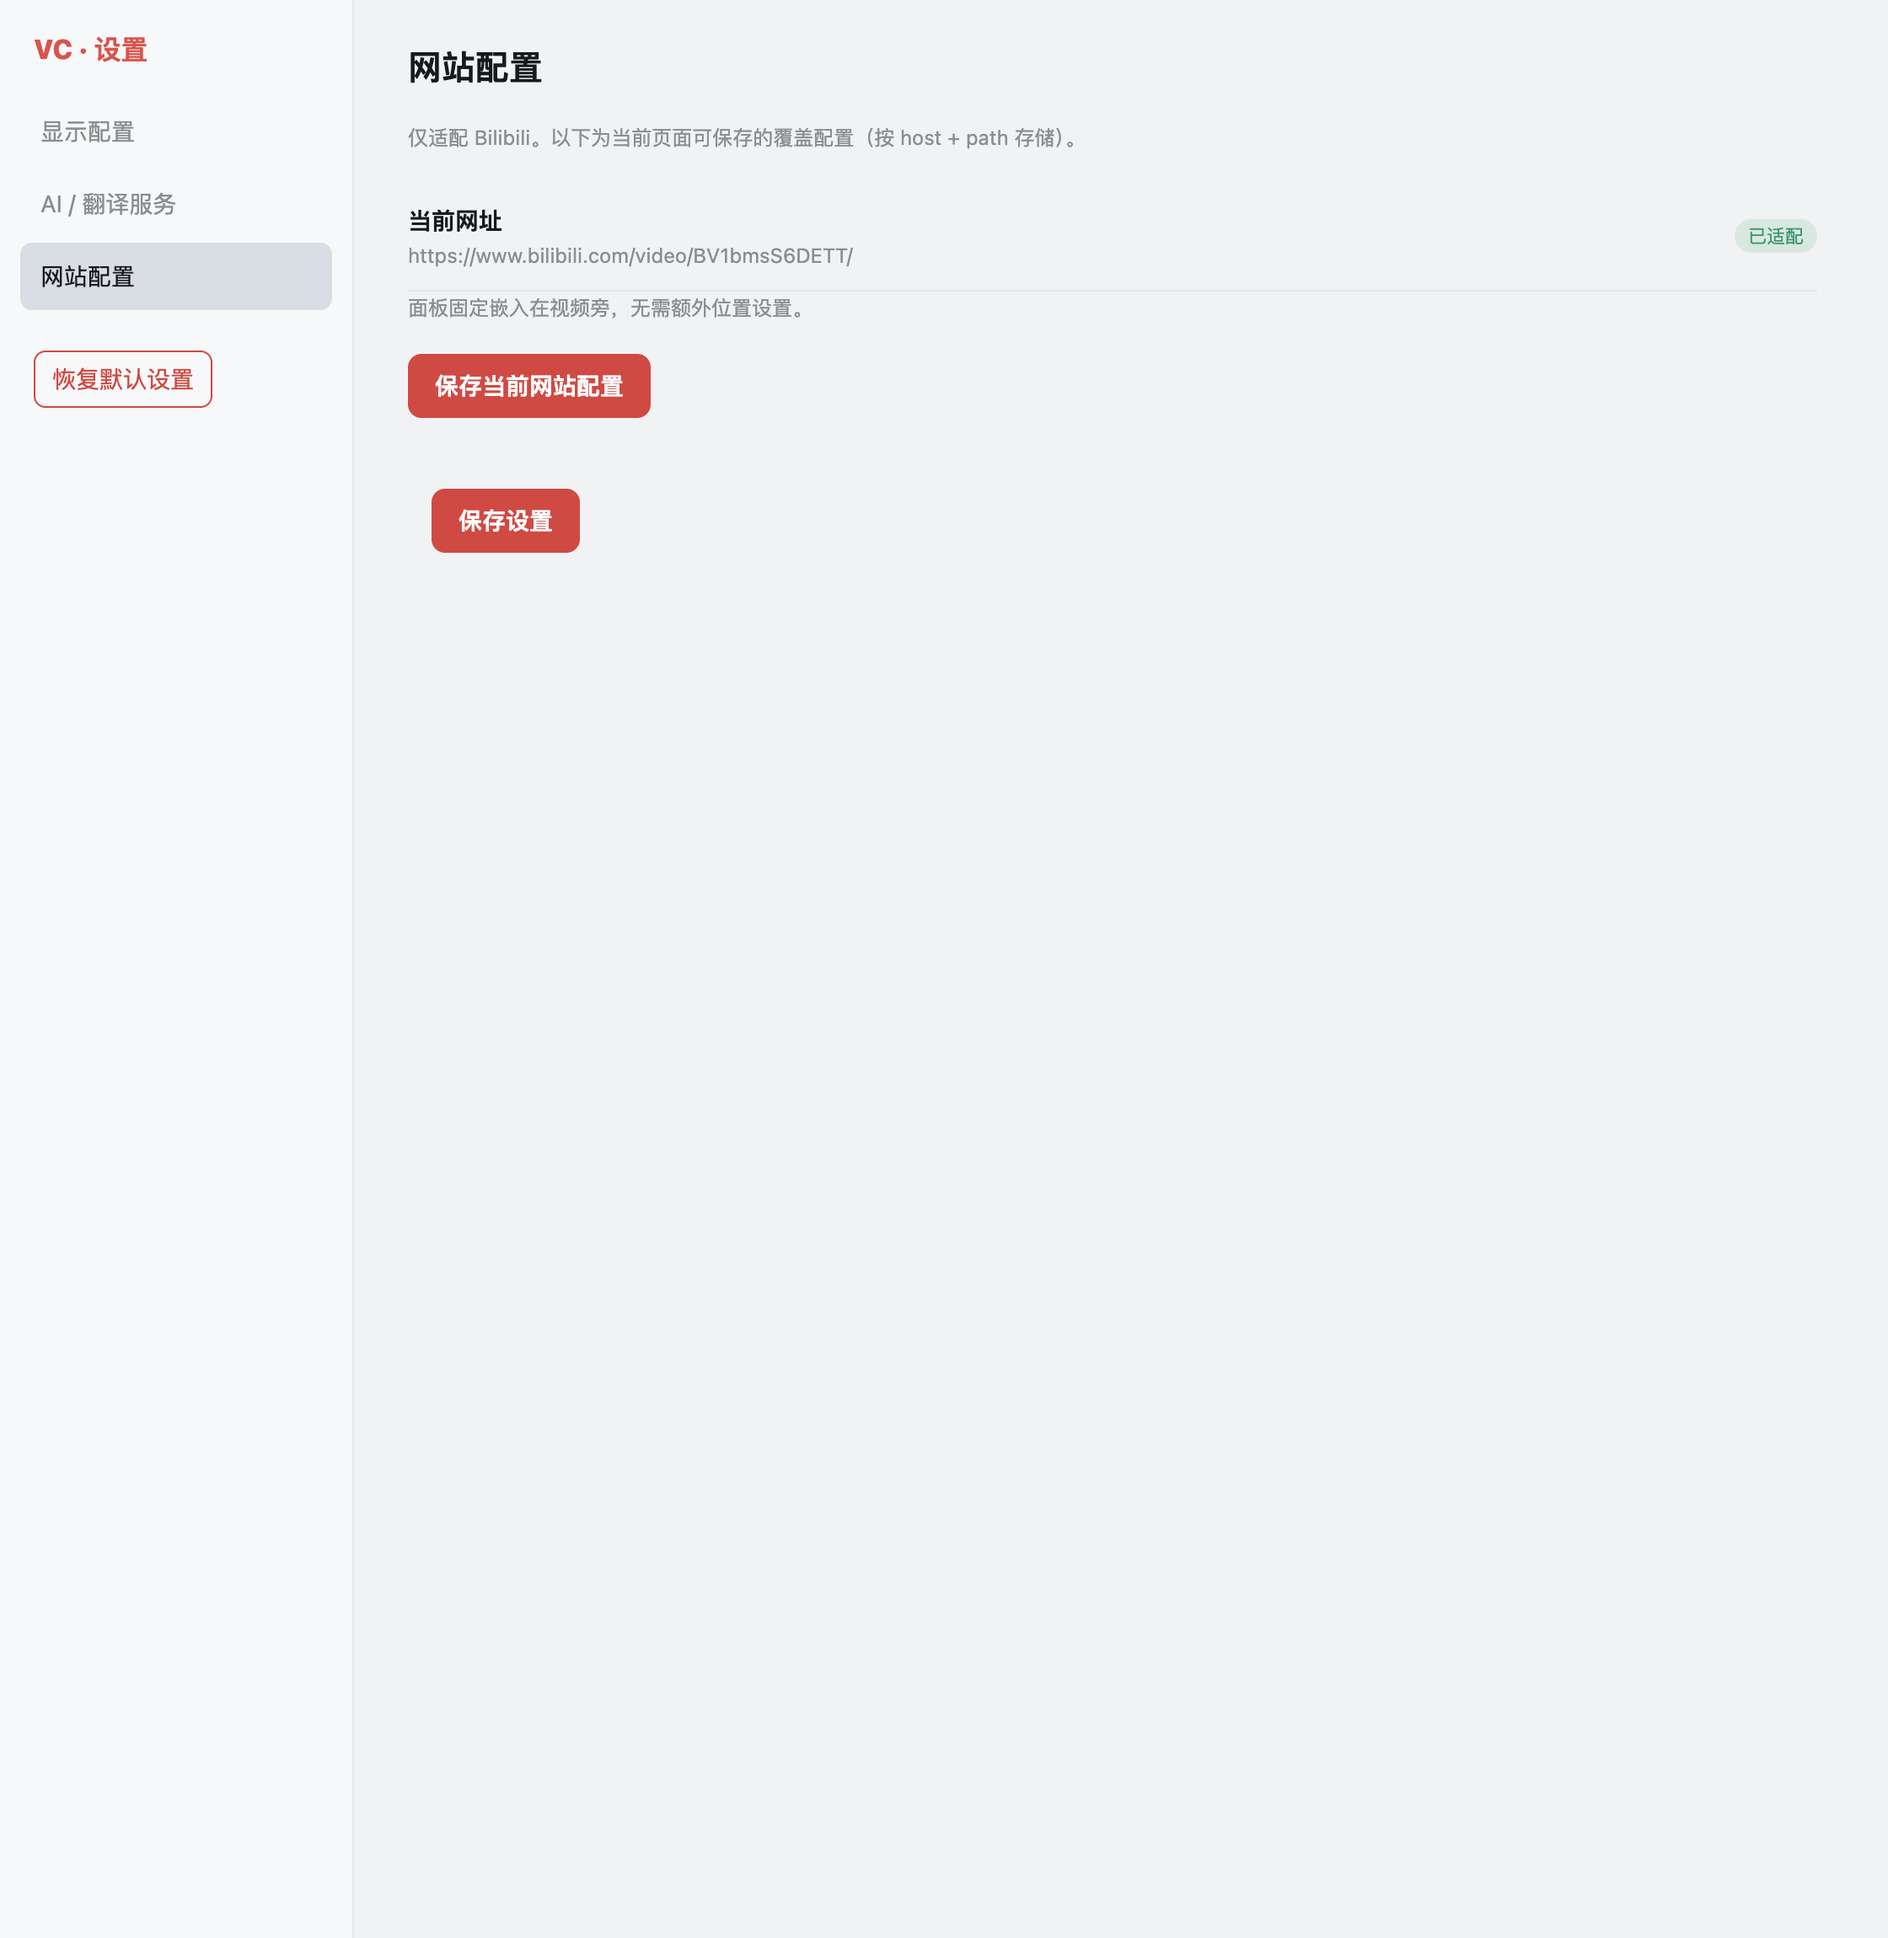
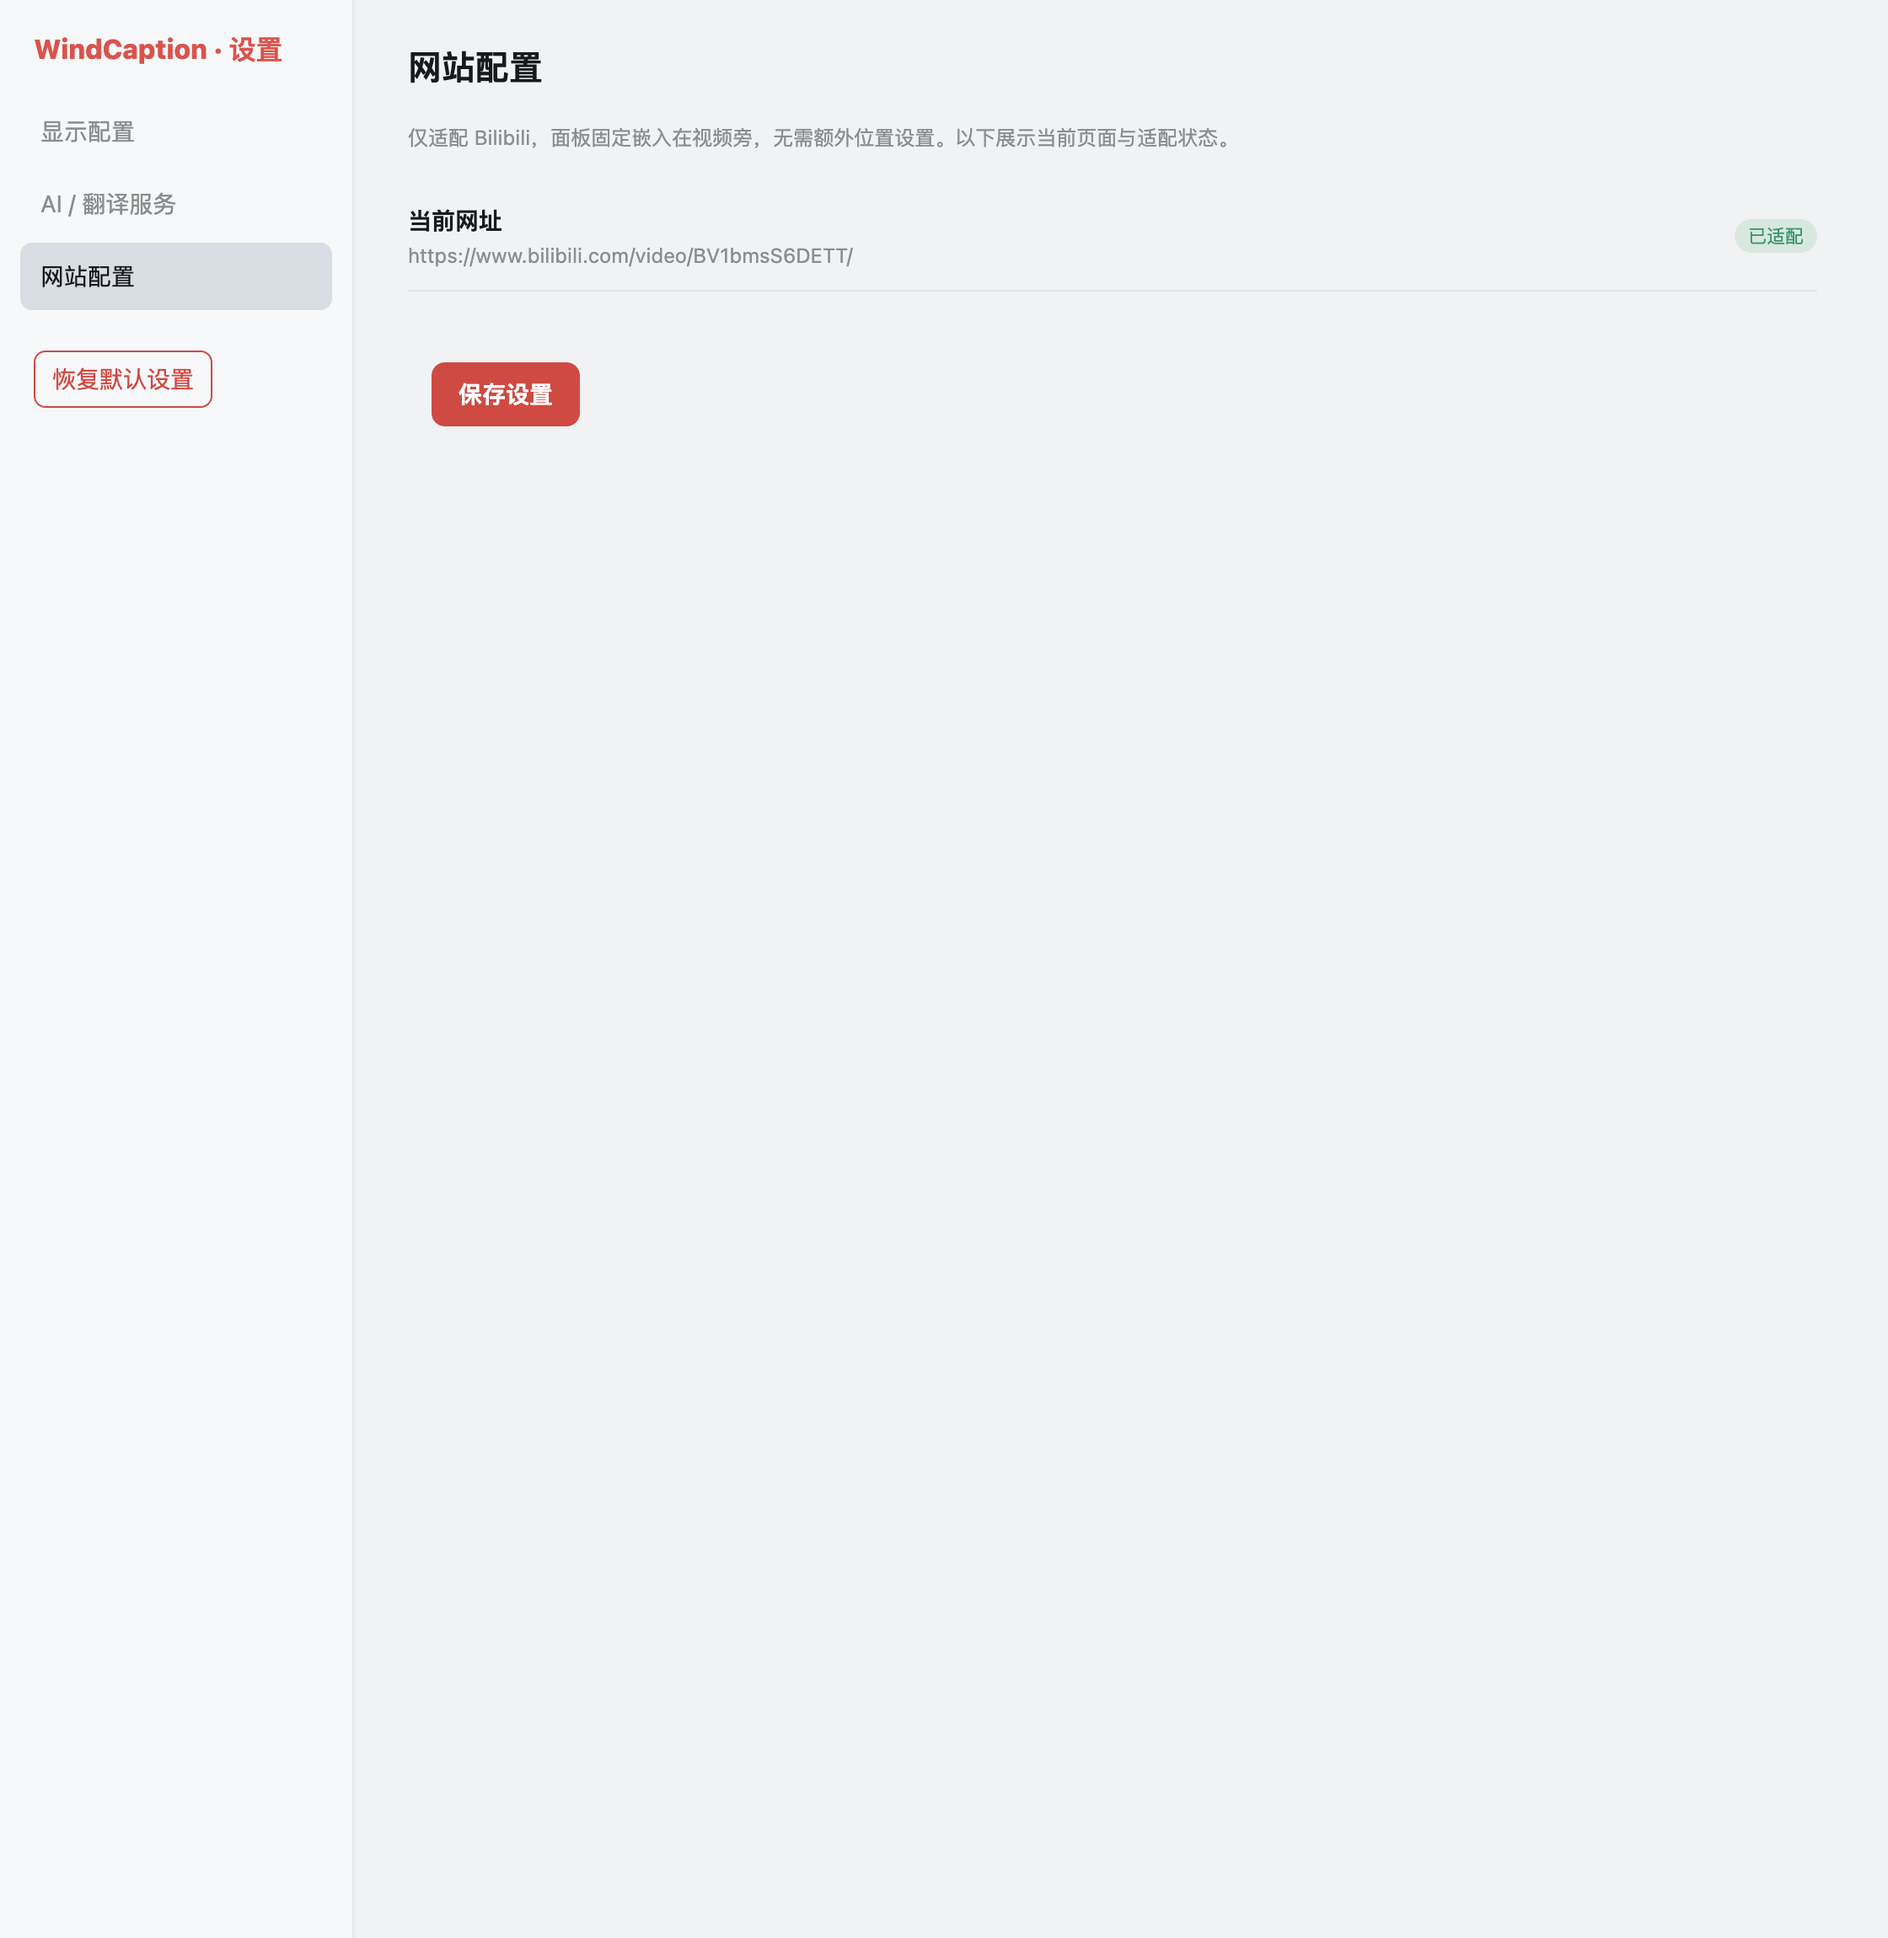
refactor: 清理网站配置冗余按钮并更新设置页截图

Changed region(s): [[0.2188, 0.1543, 0.4062, 0.3087], [0.2812, 0.0617, 0.625, 0.0926], [0.0312, 0.0, 0.1562, 0.0309]]

diff --git a/options/options.html b/options/options.html
@@ -9,7 +9,7 @@
 <body>
 <div class="wrap">
   <aside class="side">
-    <div class="logo">VC · 设置</div>
+    <div class="logo">WindCaption · 设置</div>
     <a data-sec="display" class="active">显示配置</a>
     <a data-sec="services">AI / 翻译服务</a>
     <a data-sec="site">网站配置</a>
@@ -63,10 +63,8 @@
 
     <section data-panel="site" class="hidden">
       <h1>网站配置</h1>
-      <p class="tip">仅适配 Bilibili。以下为当前页面可保存的覆盖配置（按 host + path 存储）。</p>
+      <p class="tip">仅适配 Bilibili，面板固定嵌入在视频旁，无需额外位置设置。以下展示当前页面与适配状态。</p>
       <div class="item"><div><b>当前网址</b><p id="cur-url">—</p></div><span class="pill">已适配</span></div>
-      <p class="tip">面板固定嵌入在视频旁，无需额外位置设置。</p>
-      <button id="btn-save-site">保存当前网站配置</button>
     </section>
 
     <div class="savebar"><span id="save-status"></span><button class="primary" id="btn-save">保存设置</button></div>

diff --git a/options/options.css b/options/options.css
@@ -43,7 +43,7 @@ button{cursor:pointer}.hidden{display:none!important}
 .grid4{display:grid;grid-template-columns:repeat(4,1fr);gap:12px;padding:14px 0}
 .grid4 label{display:flex;flex-direction:column;gap:6px;font-size:12px;color:var(--mu)}
 .grid4 input{padding:7px;background:var(--s3);border:1px solid var(--bd);border-radius:7px}
-button.primary,button#btn-add-service,button#btn-save-site,button#btn-save{
+button.primary,button#btn-add-service,button#btn-save{
   background:var(--pr-btn);border:0;color:var(--on-pr);font-weight:700;padding:9px 16px;border-radius:8px}
 button.mini.danger{background:none;border:1px solid var(--dg);color:var(--dg);padding:6px 10px;border-radius:7px}
 .service-card{background:var(--s3);border:1px solid var(--bd);border-radius:10px;padding:14px;margin-bottom:12px}

diff --git a/options/options.js b/options/options.js
@@ -183,16 +183,5 @@
       $('#cur-url').textContent = tabs[0] ? tabs[0].url : '—';
     });
   }
-  $('#btn-save-site').addEventListener('click', async () => {
-    const url = $('#cur-url').textContent;
-    if (!url || url === '—') return toast('无法获取当前页面');
-    const u = new URL(url);
-    const key = u.host + u.pathname;
-    settings.websiteConfigs = settings.websiteConfigs || {};
-    if (settings.websiteConfigs[key]) delete settings.websiteConfigs[key].position;
-    await store.saveSettings(settings);
-    toast('已保存，刷新网页后生效');
-  });
-
   init();
 })();

diff --git a/lib/storage.js b/lib/storage.js
@@ -27,7 +27,6 @@
       services: [],
       defaultAiService: '',
       defaultTranslateService: '',
-      websiteConfigs: {},
       analytics: false
     }
   };
@@ -65,6 +64,8 @@
     s.shortcut = Object.assign({}, DEFAULTS.settings.shortcut, saved.shortcut || {});
     // 界面语言固定中文：忽略历史保存值，始终使用默认 zh（智能标点 fallback 也用它）
     s.lang = 'zh';
+    // 网站配置固定嵌入：清理历史遗留的 websiteConfigs。
+    delete s.websiteConfigs;
     return s;
   }
   function saveSettings(settings) { return set({ settings }); }

diff --git a/README.md b/README.md
@@ -109,7 +109,7 @@
 
 <img src="screenshots/12-settings-site.png" alt="网站配置" width="50%">
 
-显示当前网址和适配状态，可保存当前页面的覆盖配置（按 host + path 存）。面板固定嵌入视频旁，没有位置选项。
+显示当前网址和适配状态。面板固定嵌入视频旁，没有位置选项。
 
 ## 字幕是怎么来的
 
